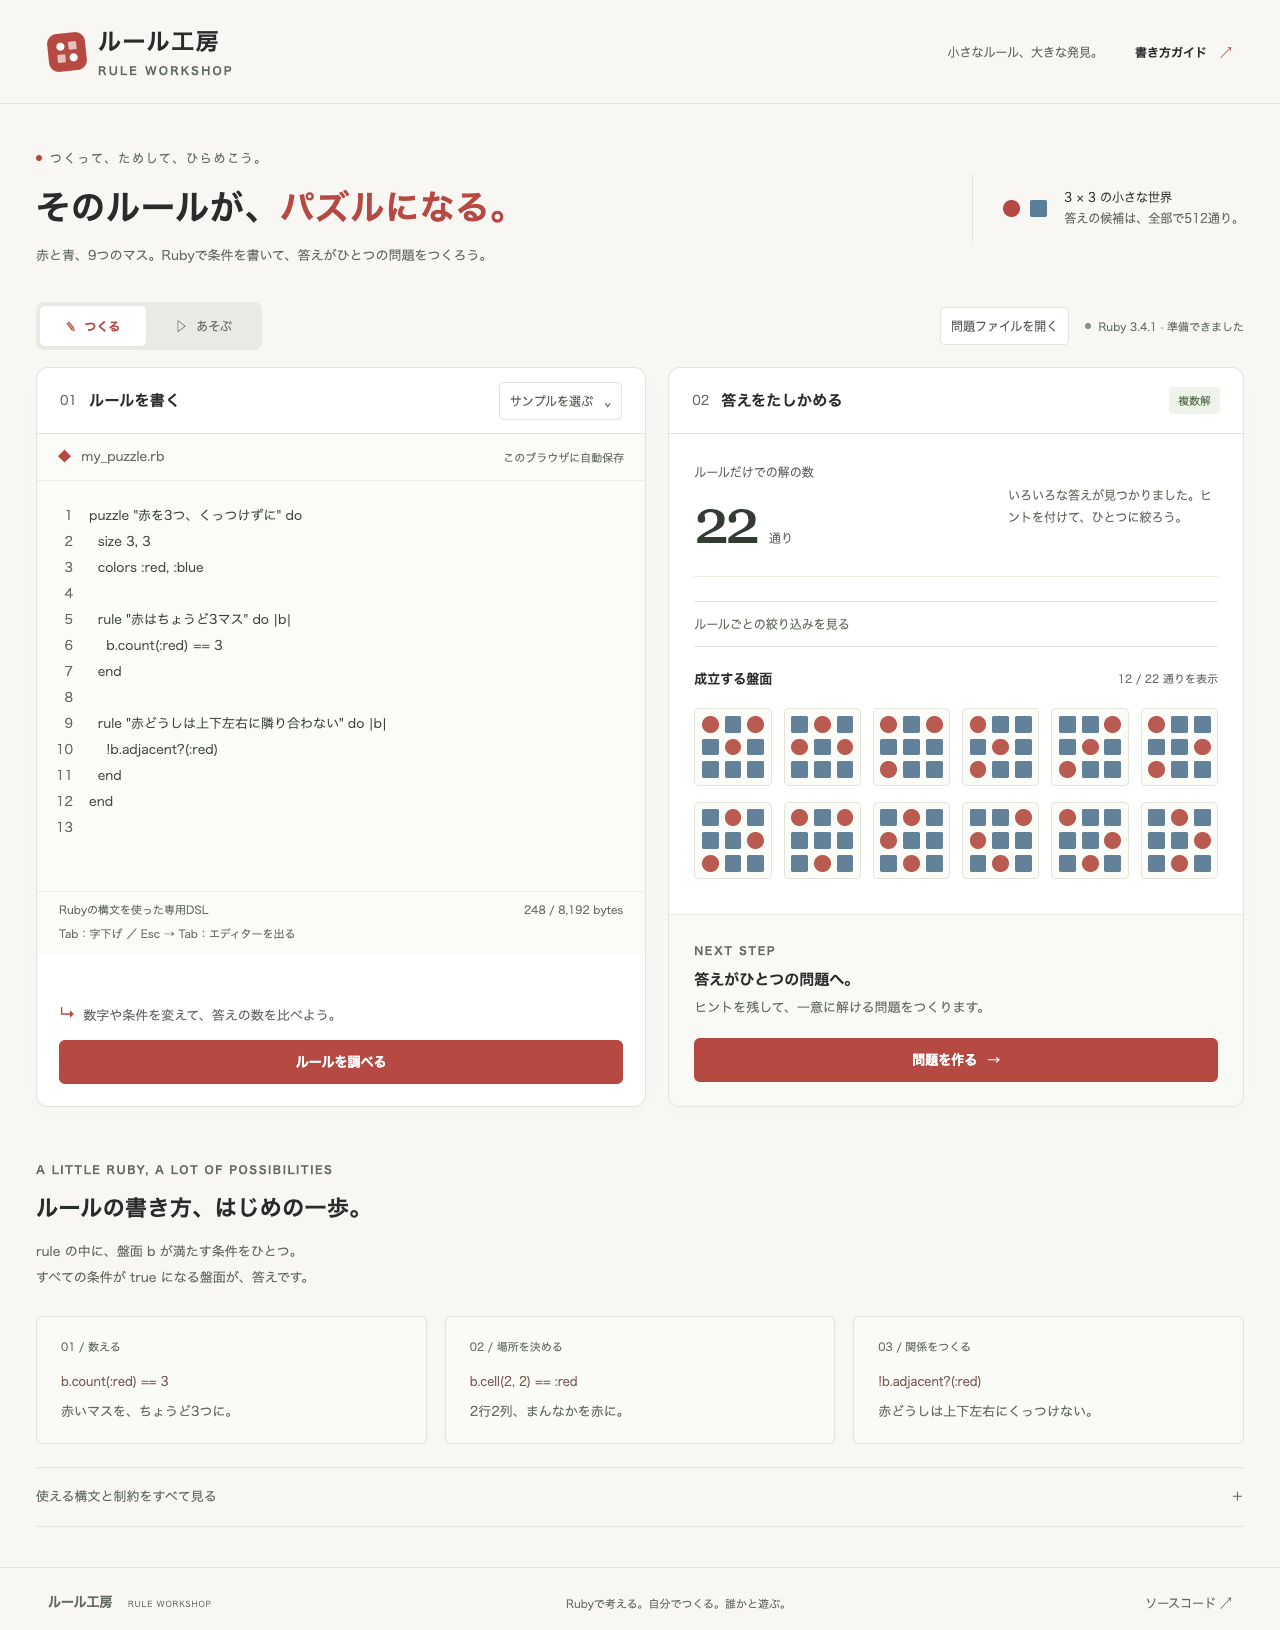
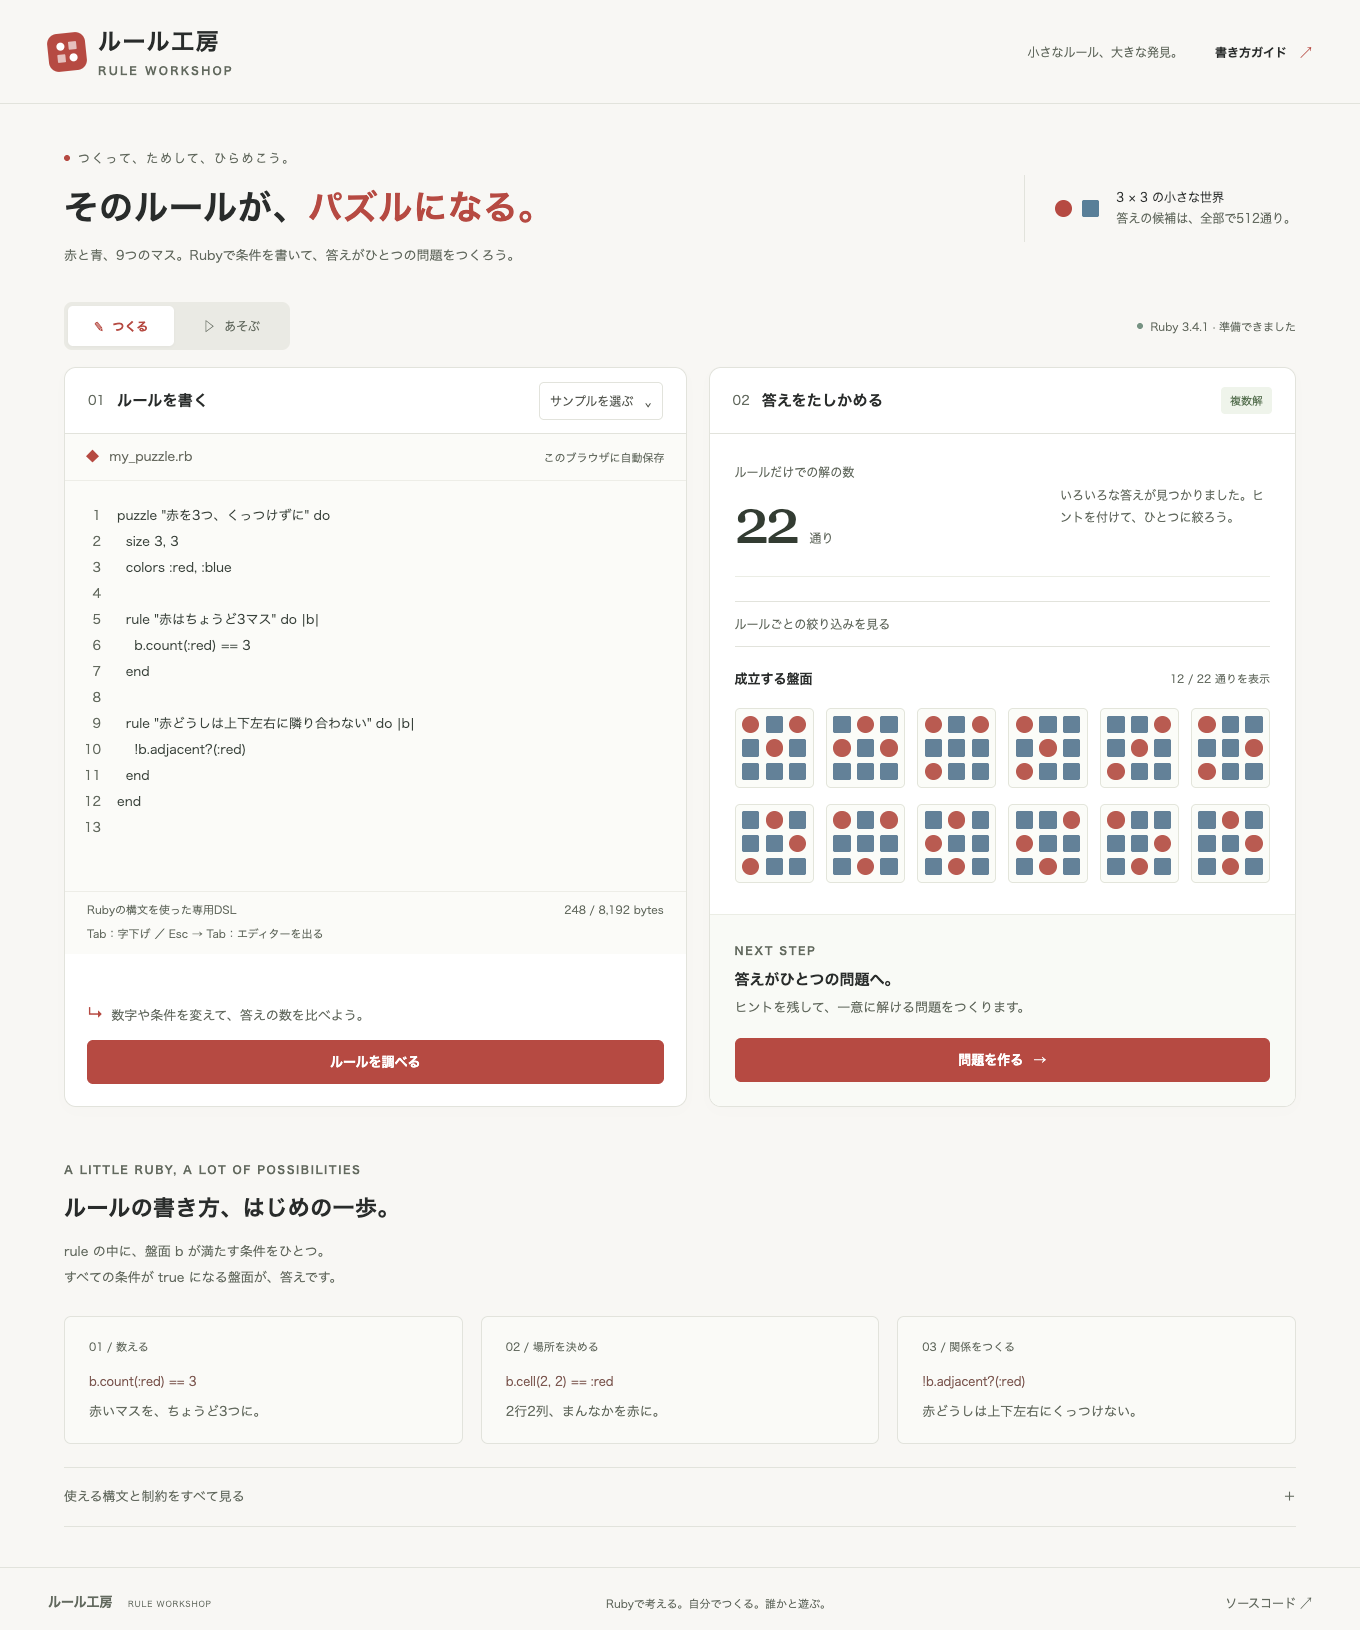
Simplify puzzle sharing to URLs and remove file import and export

diff --git a/test/browser/quality.spec.js b/test/browser/quality.spec.js
@@ -1,7 +1,6 @@
 import { test, expect } from "@playwright/test";
 import AxeBuilder from "@axe-core/playwright";
 import { readFileSync } from "node:fs";
-import { encodeShare } from "../../src/share.js";
 const fixtures = JSON.parse(readFileSync("test/fixtures.json", "utf8"));
 const custom = fixtures.find((f) => f.id === "three").code;
 async function ready(page) {
@@ -102,43 +101,6 @@ test("painting, move undo, reset undo and clear input remain distinct", async ({
   await page.locator('[data-paint="empty"]').click();
   await cell.click();
   await expect(cell).toHaveAttribute("aria-label", /未入力/);
-});
-test("problem file round trip requires review, omits answers and rejects oversized imports", async ({
-  page,
-  browser,
-}) => {
-  await ready(page);
-  await shareURL(page);
-  const downloadPromise = page.waitForEvent("download");
-  await page.locator("#download-puzzle").click();
-  const download = await downloadPromise;
-  const data = JSON.parse(readFileSync(await download.path(), "utf8"));
-  expect(Object.keys(data).sort()).toEqual(["code", "hints", "v"]);
-  const c = await browser.newContext();
-  const other = await c.newPage();
-  await other.goto(new URL("./", page.url()).href);
-  await other
-    .locator("#import-file")
-    .setInputFiles({
-      name: "puzzle.json",
-      mimeType: "application/json",
-      buffer: Buffer.from(JSON.stringify(data)),
-    });
-  await expect(other.locator("#import-banner")).toBeVisible();
-  await expect(other.locator("#analyze")).toBeDisabled();
-  await other.locator("#accept-import").click();
-  await expect(other.locator("#puzzle-meta")).toContainText(
-    "固定ヒント込み：1通り",
-  );
-  await other
-    .locator("#import-file")
-    .setInputFiles({
-      name: "big.json",
-      mimeType: "application/json",
-      buffer: Buffer.alloc(65537, 65),
-    });
-  await expect(other.locator("#notice")).toContainText("64KB");
-  await c.close();
 });
 test("no automatic evaluation of code edited while WASM is loading", async ({
   page,

diff --git a/src/main.js b/src/main.js
@@ -4,7 +4,6 @@ import { RubyRuntime } from "./runtime.js";
 import {
   encodeShare,
   decodeShare,
-  validateShare,
   MAX_CODE_BYTES,
 } from "./share.js";
 const $ = (id) => document.getElementById(id);
@@ -640,43 +639,6 @@ $("copy-link").addEventListener("click", async () => {
     $("share-url").select();
     $("copy-status").textContent =
       "自動コピーできませんでした。選択したURLを手動でコピーしてください。";
-  }
-});
-$("download-puzzle").addEventListener("click", () => {
-  if (!puzzle) return;
-  const data = validateShare({ v: 1, code: puzzle.code, hints: puzzle.hints });
-  const url = URL.createObjectURL(
-    new Blob([JSON.stringify(data, null, 2)], { type: "application/json" }),
-  );
-  const link = document.createElement("a");
-  link.href = url;
-  link.download = "rule-workshop-puzzle.json";
-  link.click();
-  setTimeout(() => URL.revokeObjectURL(url), 1000);
-});
-$("import-file-button").addEventListener("click", () =>
-  $("import-file").click(),
-);
-$("import-file").addEventListener("change", async () => {
-  const file = $("import-file").files?.[0];
-  $("import-file").value = "";
-  if (!file) return;
-  const current = revision;
-  try {
-    if (file.size > 65536)
-      throw new Error("問題ファイルは64KB以内にしてください。");
-    const data = validateShare(JSON.parse(await file.text()));
-    if (current !== revision) return;
-    if (location.hash.startsWith("#p="))
-      history.replaceState(null, "", location.pathname + location.search);
-    presentImport(data);
-  } catch (error) {
-    notice(
-      error instanceof SyntaxError
-        ? "問題ファイルのJSONが壊れています。"
-        : error.message,
-      true,
-    );
   }
 });
 $("accept-import").addEventListener("click", async () => {

diff --git a/index.html b/index.html
@@ -58,14 +58,6 @@
           </button>
         </div>
         <div class="toolbar-tools">
-          <button id="import-file-button" class="small-button">
-            問題ファイルを開く</button
-          ><input
-            type="file"
-            id="import-file"
-            accept=".json,application/json"
-            hidden
-          />
           <div class="runtime">
             <span id="runtime-dot" class="status-dot loading"></span
             ><span id="runtime-text" role="status">Rubyを読み込んでいます…</span
@@ -360,12 +352,6 @@
       ><input id="share-url" readonly /><button id="copy-link" class="primary">
         URLをコピー
       </button>
-      <button id="download-puzzle" class="secondary">
-        問題をファイルに保存
-      </button>
-      <p class="file-help">
-        長いURLを送れないときは、保存した問題ファイルを渡せます。
-      </p>
       <p id="copy-status" role="status"></p>
     </dialog>
     <script type="module" src="/src/main.js"></script>

diff --git a/src/style.css b/src/style.css
@@ -1477,13 +1477,6 @@ dialog label {
 .judge-status.incorrect {
   color: #963b32;
 }
-#download-puzzle {
-  width: 100%;
-  margin-top: 10px;
-}
-.file-help {
-  font-size: 12px;
-}
 .runtime {
   font-size: 11px;
 }

diff --git a/docs/demo.md b/docs/demo.md
@@ -5,7 +5,7 @@
 3. 「ルールを調べる」を押す。解の数は24通りになる。数値は実際のRuby計算結果。「ルールごとの絞り込みを見る」を開き、上から順に条件を加えて候補が減る様子も確認する。
 4. 「問題を作る」を押す。ルールだけの解数と、ヒント込みの解数1通りが別々に表示される。
 5. 固定ヒント以外のマスをクリック、またはR / Bで入力する。色ボタンを選んで塗る操作と、「1手戻す」も試す。未入力の間は入力中、入力完了後にRubyが判定する。誤答なら満たしていないルールを赤い文字で表示。正答なら控えめに盤面が動き、クリアメッセージが出る。
-6. 「共有」を押してURLをコピー、または問題ファイルを保存し、別のブラウザまたはプライベートウィンドウで開く。ルール内容を確認して読み込みボタンを押し、同じ固定ヒントから遊べることを確認する。
+6. 「共有」を押してURLをコピーし、別のブラウザまたはプライベートウィンドウで開く。ルール内容を確認して読み込みボタンを押し、同じ固定ヒントから遊べることを確認する。
 7. 「サンプルを選ぶ」から「あれ？ 解がない」を選んで検証。解0通りで生成できないことを確認。矛盾を直せば問題にできる。
 
 ## 発表で説明するポイント

diff --git a/docs/architecture.md b/docs/architecture.md
@@ -55,6 +55,6 @@ judgeはルール名に加えて各ルールの真偽を順序付きで返しま
 
 サンプル切り替え時の自作コードのバックアップは1件。プレイのUndoは最大100手で、盤面だけを戻します。評価は引き続きRubyに依頼します。リセットも1つ前の盤面に戻せます。
 
-共有URLのハッシュはガイド移動では変更せず、サンプルへの切り替えや編集時には切り離します。問題ファイルも共有URLと同じ3キーだけを含み、64KBの入力上限と確認ボタンを経由します。ダウンロードにはBlobを用い、正解盤面を含めません。
+共有URLのハッシュはガイド移動では変更せず、サンプルへの切り替えや編集時には切り離します。共有方法はURLに統一しています。受け手がコードを確認して読み込む流れで、正解盤面は共有データに含めません。
 
 WASMの受信バイト数と初期化段階をWorkerから通知します。Content-Lengthに依存した進捗率は表示しません。終了済みWorkerから遅れて来るメッセージとエラーを無視します。

diff --git a/docs/submission/environment.md b/docs/submission/environment.md
@@ -40,7 +40,7 @@ npm run test:browser
 
 ## テスト環境の補足
 
-検証したMacではPlaywrightのWebKitが空ページ生成でも停止しました。Macで同じ現象が出る場合は `npm run test:browser -- --project=chromium --project=firefox` を使用してください。LinuxのGitHub Actionsでは3つのエンジンで各14件、計42件が成功しました。実際のSafariアプリやiOS実機の動作確認とは区別しています。
+検証したMacではPlaywrightのWebKitが空ページ生成でも停止しました。Macで同じ現象が出る場合は `npm run test:browser -- --project=chromium --project=firefox` を使用してください。LinuxのGitHub Actionsで3つのエンジンを検証しています。最新の実行結果は検証記録を参照してください。実際のSafariアプリやiOS実機の動作確認とは区別しています。
 
 ## 制限
 

diff --git a/AI_USAGE.md b/AI_USAGE.md
@@ -24,6 +24,10 @@
 - 文字のコントラストを改善し、アクセシビリティ検査と3種類のブラウザエンジンのテストを追加。
 - 実際の画面を撮影し、作品紹介PDFと提出用ZIPを作成。
 
+## 1.1.1の整理
+
+ユーザーの指示により問題ファイルの保存・読込を削除し、共有をURLに統一しました。関連する説明、画面写真、応募資料も更新しました。
+
 ## 応募者本人が追記する欄（未記入）
 
 - 自分が考えた目的・アイデア:

diff --git a/docs/verification.md b/docs/verification.md
@@ -1,6 +1,6 @@
 # 検証記録
 
-更新日: 2026-10-04 / アプリ: 1.1.0
+更新日: 2026-10-04 / 以下は1.1.0時点の記録（1.1.1の結果は末尾）
 
 ## ローカルで実行済み
 
